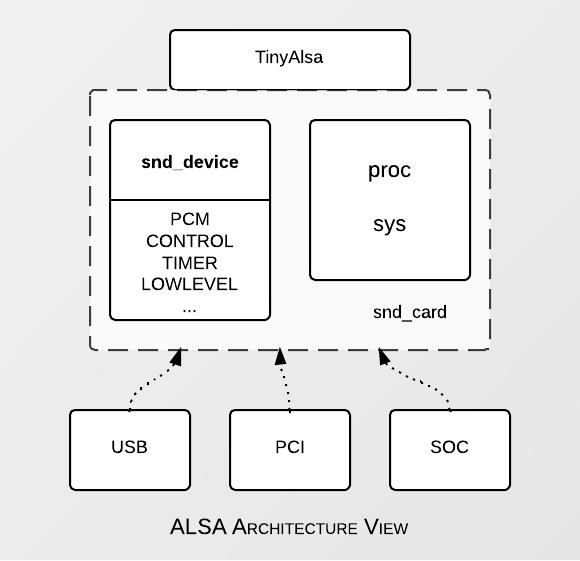
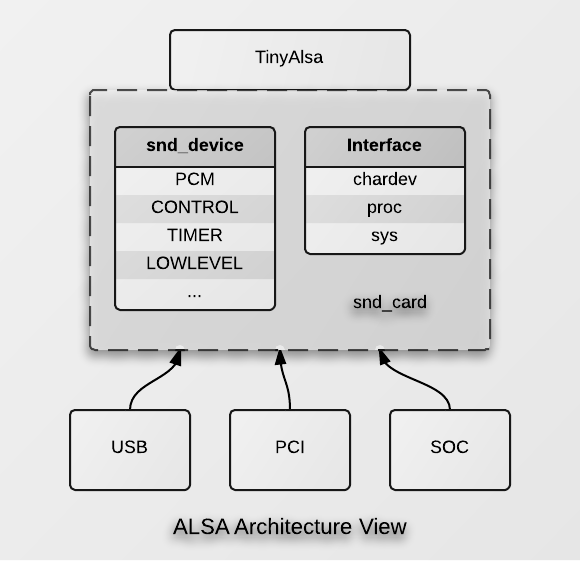
Beatify alsa.png

diff --git a/_posts/2013-12-24-kernel-alsa-overview.md b/_posts/2013-12-24-kernel-alsa-overview.md
@@ -109,7 +109,7 @@ card1上的pcm1 capture设备<q>pcmC1D1c</q>.
     ├── soc ASOC子系统的实现。
     └── spi/usb spi/usb声卡。
 
-下面是一张alsa的架构草图，真的很草哟...
+Alsa的架构如下图。
 
 [ ![alsa][alsa_t_image] ][alsa_image]
 
